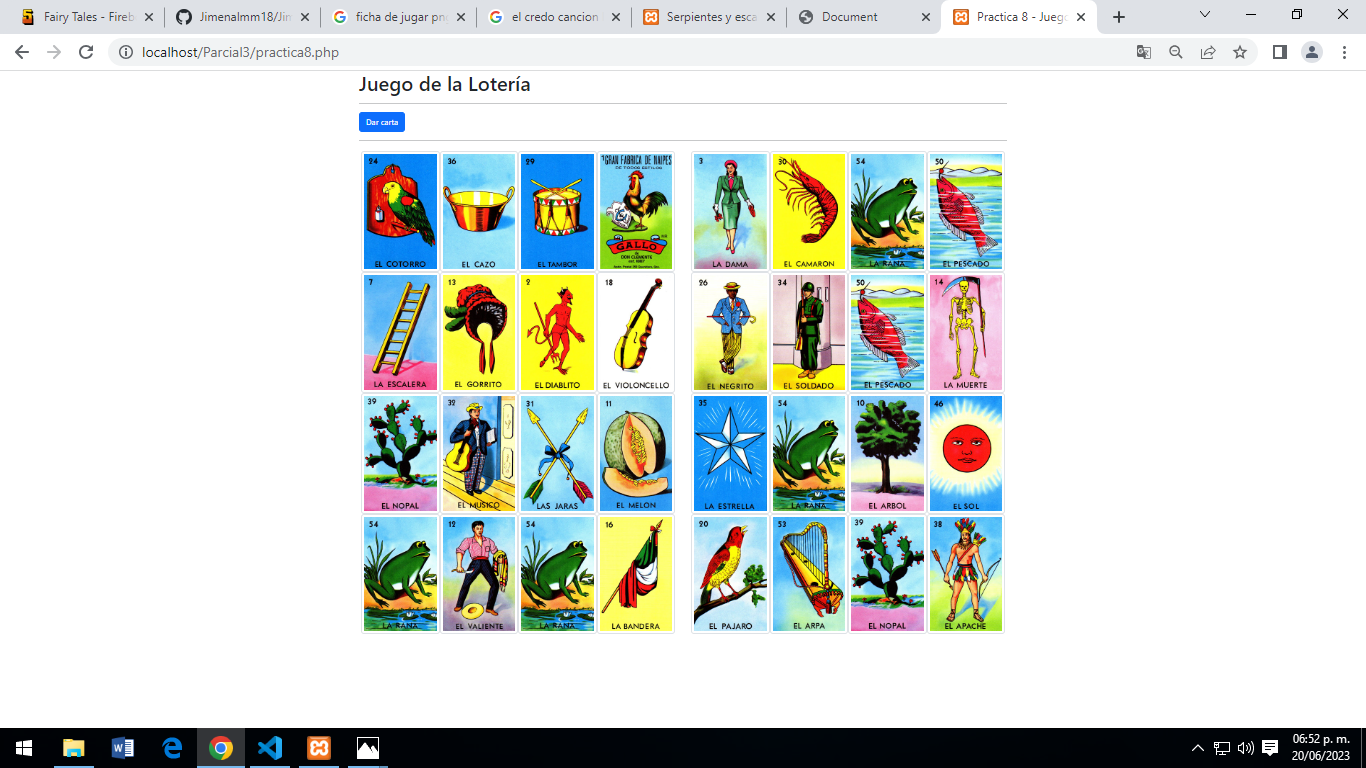
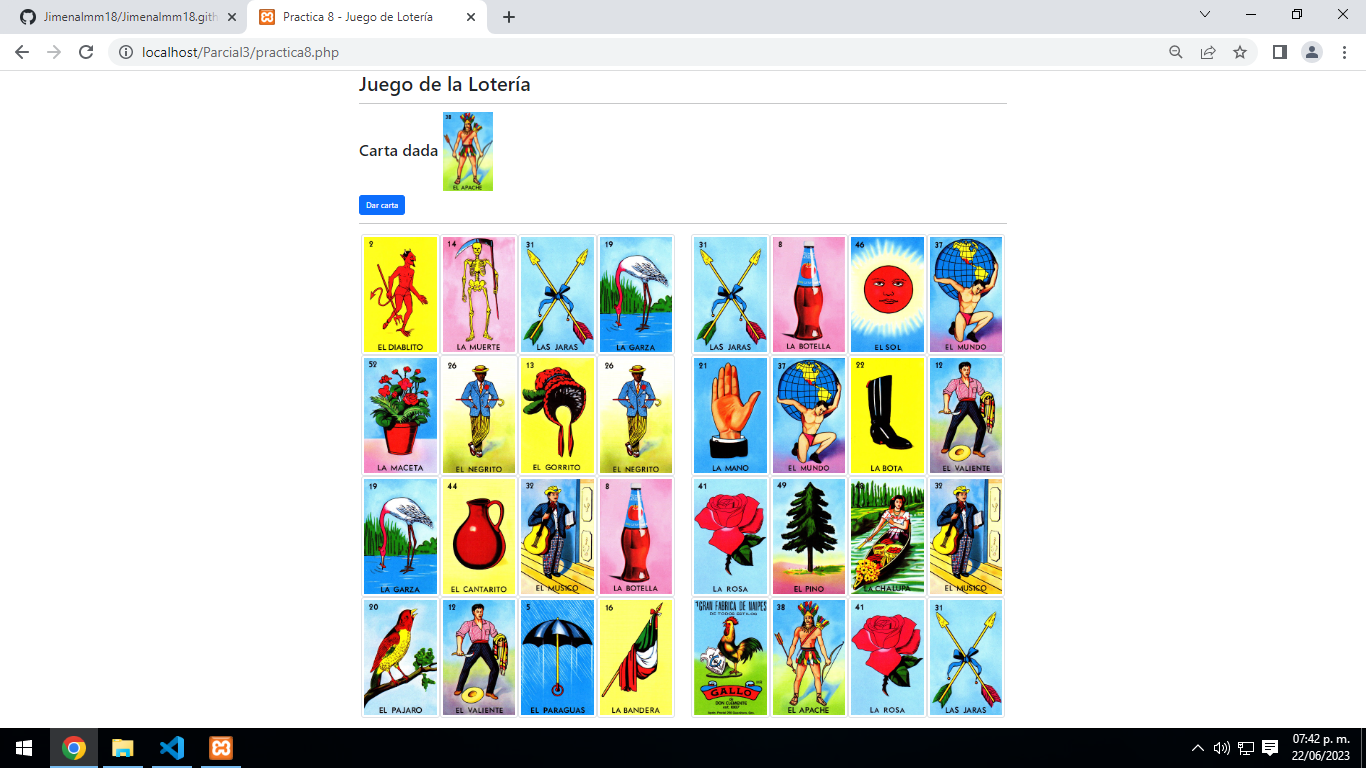
practica 8

diff --git a/Parcial3/practica8.php b/Parcial3/practica8.php
@@ -27,6 +27,9 @@
             if(isset($_POST["carta1"])){
                 $carta1 = $_POST["carta1"];
                 $carta2 = $_POST["carta2"];
+                //Aqui empieza la logica del juego
+                $carta = rand(1,54);
+                echo "<h2>Carta dada <img src='loteria/".$carta.".jpg' class='img-fluid' width='100px'></h2>";
             }else{
                 $carta1 = [];
                 $total = 0;
@@ -60,6 +63,7 @@
                         for($i=0; $i<16; $i++){
                             $numero = rand(1,54);
                             echo "<div class='col-3 p-0'><img src='loteria/".$numero.".jpg' class='img-thumbnail'></div>";
+                            echo "<input type='hidden' name='carta1[]' value='". $carta1[$i] ."'>";
                         }
                     ?>
                     </div>
@@ -72,6 +76,7 @@
                         for($i=0; $i<16; $i++){
                             $numero = rand(1,54);
                             echo "<div class='col-3 p-0'><img src='loteria/".$numero.".jpg' class='img-thumbnail'></div>";
+                            echo "<input type='hidden' name='carta2[]' value='". $carta2[$i] ."'>";
                         }
                     ?>
                     </div>
